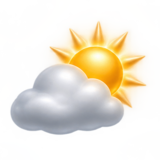
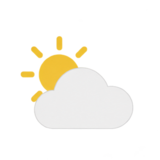
Fix animated window glass, fullscreen privacy, and minimal weather artwork

diff --git a/modules/lickintosh/personalization/WeatherAtmosphere.qml b/modules/lickintosh/personalization/WeatherAtmosphere.qml
@@ -1,11 +1,8 @@
 import QtQuick
-import Quickshell
-import Quickshell.Widgets
-import qs.services
 
-ClippingRectangle {
-    id: root
-
+// Compatibility surface for saved weather preferences. Weather artwork is
+// supplied as image assets; this item intentionally draws no atmosphere.
+Item {
     property string kind: ""
     property bool active: true
     property real intensity: 1
@@ -13,54 +10,4 @@ ClippingRectangle {
     property bool lightning: true
     property color dropColor: "#9cd9ff"
     property int seed: 0
-
-    readonly property bool storm: kind === "storm"
-    readonly property bool wet: storm || kind === "rain" || kind === "drizzle"
-    readonly property bool running: visible && active && wet
-        && RenderingState.ambientAnimations && !SettingsPreferences.locked
-    readonly property string artwork: storm && lightning ? "storm" : wet ? "rain"
-        : kind === "sun" || kind === "partly" ? "clear" : "clouds"
-    property real phase: 0
-
-    visible: kind !== ""
-    radius: Math.min(22, height / 6)
-    color: "transparent"
-
-    FrameAnimation {
-        running: root.running
-        onTriggered: root.phase = (root.phase + Math.min(frameTime, .05) * root.speed) % 120
-    }
-
-    Rectangle {
-        anchors.fill: parent
-        color: "#9ab1ff"
-        opacity: root.running && root.storm && root.lightning
-            ? .14 * Math.pow(Math.max(0, Math.cos(root.phase * .52 + .9)), 65) : 0
-    }
-
-    Repeater {
-        model: root.wet && root.active ? Math.min(20, Math.max(4, Math.round(10 * root.intensity))) : 0
-        delegate: Rectangle {
-            required property int index
-            readonly property real noise: ((index * 73 + root.seed * 31) % 101) / 101
-            readonly property real pulse: root.running ? (1 + Math.sin(root.phase * 1.15 + index * 2.17)) / 2 : .7
-            width: 3 + noise * 7
-            height: width * (1 + noise * .45)
-            radius: width / 2
-            scale: .65 + pulse * .35
-            opacity: .22 + .48 * pulse
-            x: 4 + (index * .618034 % 1) * Math.max(0, root.width - width - 8)
-            y: 4 + (index * .381966 % 1) * Math.max(0, root.height - height - 8)
-            color: Qt.alpha(root.dropColor, .30)
-            border.width: 1
-            border.color: Qt.alpha(root.dropColor, .62)
-
-            Rectangle {
-                x: parent.width * .24; y: parent.height * .17
-                width: Math.max(1, parent.width * .25); height: width
-                radius: width / 2
-                color: "#dfffffff"
-            }
-        }
-    }
 }

diff --git a/modules/lickintosh/island-dashboard/IslandDashboard.qml b/modules/lickintosh/island-dashboard/IslandDashboard.qml
@@ -185,13 +185,6 @@ PanelWindow {
         Behavior on height { NumberAnimation { duration: ShellMotion.fade(); easing.type: Easing.OutCubic } }
         HoverHandler { id: dashboardHover; onHoveredChanged: panel.pointerChanged(hovered) }
 
-        WeatherAtmosphere {
-            anchors.fill: parent
-            kind: panel.page === 1 && WeatherState.available && IslandConfig.s('dashboardWeatherArt')
-                ? WeatherState._kindFor(panel.displayedCode, panel.displayedDay) : ""
-            active: panel.expandedBody
-        }
-
         ColumnLayout {
             anchors.fill: parent
             anchors.margins: 18

diff --git a/modules/lickintosh/island-dashboard/integrate.py b/modules/lickintosh/island-dashboard/integrate.py
@@ -145,3 +145,66 @@ for path in directory.glob('*.qml'):
     text = path.read_text()
     text = text.replace('font.family: "Sans Serif"', 'font.family: "SF Pro Text"')
     path.write_text(text)
+
+# Fullscreen presentation is a single reactive decision shared by island and dot.
+path = root / 'services/PrivacyPresentation.qml'
+path.write_text("""pragma Singleton
+import QtQuick
+import Quickshell
+import Quickshell.Hyprland
+import Quickshell.Wayland
+Singleton {
+    function fullscreen(screenName) {
+        const active = Hyprland.activeToplevel
+        const foreign = ToplevelManager.activeToplevel
+        if (!active || !foreign || !foreign.fullscreen) return false
+        const monitor = active.monitor
+        return !!monitor && monitor.name === screenName
+    }
+    // Older integration stages call this; ownership is now derived from focus.
+    function setCorner(screenName, show) {}
+}
+""")
+path = root / 'rosa/overlays/IslandWindow.qml'
+text = path.read_text()
+a = text.index('    property var fallbackMonitors:')
+b = text.index('    readonly property bool idleEligible:', a)
+text = text[:a] + "    readonly property bool blocked: NativeSettings.PrivacyPresentation.fullscreen(win.modelData.name)\n\n" + text[b:]
+text = text.replace('visible: !IslandBus.locked && IslandConfig.s("enabled") && !idleVisibility.fullyHidden',
+                    'visible: !win.blocked && !IslandBus.locked && IslandConfig.s("enabled") && !idleVisibility.fullyHidden')
+path.write_text(text)
+paths = list(root.rglob('FullscreenPrivacy.qml'))
+assert len(paths) == 1
+paths[0].write_text("""import QtQuick
+import Quickshell
+import Quickshell.Wayland
+import qs.services
+import qs.rosa.services
+Scope {
+    Variants {
+        model: Quickshell.screens
+        delegate: PanelWindow {
+            required property var modelData
+            screen: modelData
+            visible: !IslandBus.locked && MediaCaptureState.islandActive && PrivacyPresentation.fullscreen(modelData.name)
+            anchors { top: true; right: true }
+            implicitWidth: 18; implicitHeight: 18; color: "transparent"
+            exclusionMode: ExclusionMode.Ignore
+            WlrLayershell.layer: WlrLayer.Overlay
+            WlrLayershell.namespace: "lickintosh-fullscreen-privacy"
+            mask: Region {}
+            Rectangle {
+                anchors.centerIn: parent
+                width: 5; height: 5; radius: 2.5
+                color: MediaCaptureState.indicatorColor
+            }
+        }
+    }
+}
+""")
+
+# The procedural backdrop was removed; do not expose its dead switch.
+path = root / 'ui/settings/pages/RosaPage.qml'
+text = path.read_text()
+text = text.replace('                {key:"dashboardWeatherArt", label:"Show weather backgrounds"},\n', '')
+path.write_text(text)

diff --git a/tests/test_weather_atmosphere.py b/tests/test_weather_atmosphere.py
@@ -5,28 +5,20 @@ import test_qml_interface as qml
 ROOT=Path(__file__).resolve().parents[1]
 @unittest.skipUnless(qml.QS,'Quickshell is required')
 class WeatherAtmosphere(unittest.TestCase):
- def test_conditions_and_motion_policy(self):
+ def test_saved_weather_settings_do_not_restart_removed_effects(self):
   with tempfile.TemporaryDirectory() as directory:
-   root=Path(directory);services=root/'services';services.mkdir()
-   (services/'qmldir').write_text('module qs.services\nsingleton RenderingState RenderingState.qml\nsingleton SettingsPreferences SettingsPreferences.qml\n')
-   for name,body in [('RenderingState','property bool ambientAnimations:true'),('SettingsPreferences','property bool locked:false')]:
-    (services/(name+'.qml')).write_text('pragma Singleton\nimport QtQuick\nQtObject{'+body+'}')
+   root=Path(directory)
    (root/'WeatherAtmosphere.qml').write_text((ROOT/'modules/lickintosh/personalization/WeatherAtmosphere.qml').read_text())
    result=qml.Interface.run_qml(self,directory,'''import QtQuick
 import Quickshell
-import qs.services
-Scope{
- Item{WeatherAtmosphere{id:weather;width:320;height:160;kind:'rain'}}
- property int step:0
- Timer{interval:60;running:true;repeat:true;onTriggered:{
-  if(step===0){if(!weather.rain || !weather.running){Qt.exit(10);return};weather.kind='thunderstorm'}
-  if(step===1){if(!weather.storm){Qt.exit(11);return};RenderingState.ambientAnimations=false}
-  if(step===2){if(weather.running){Qt.exit(12);return};RenderingState.ambientAnimations=true;SettingsPreferences.locked=true}
-  if(step===3){if(weather.running){Qt.exit(13);return};SettingsPreferences.locked=false;weather.active=false}
-  if(step===4){if(weather.running){Qt.exit(14);return};weather.active=true;weather.kind='clear'}
-  if(step===5){if(weather.running || weather.rain || weather.snow){Qt.exit(15);return};console.log('WEATHER_POLICY_OK');Qt.quit()}
-  step++
+Scope {
+ Item { WeatherAtmosphere { id:weather;width:320;height:160;kind:'storm';active:true;intensity:2;speed:2;lightning:true } }
+ Timer { interval:100;running:true;onTriggered: {
+  if(weather.children.length!==0){Qt.exit(10);return}
+  weather.kind='rain';weather.active=false;weather.active=true
+  if(weather.children.length!==0){Qt.exit(11);return}
+  console.log('WEATHER_ASSET_ONLY_OK');Qt.quit()
  }}
 }''')
-   self.assertIn('WEATHER_POLICY_OK',result)
+   self.assertIn('WEATHER_ASSET_ONLY_OK',result)
 if __name__=='__main__':unittest.main()

diff --git a/tests/test_compositor_policy.py b/tests/test_compositor_policy.py
@@ -46,4 +46,24 @@ class CompositorPolicy(unittest.TestCase):
    policy.apply_native_workspace(api,{},restore=True)
    self.assertIn('["style"]="slide"',commands[-1])
    self.assertNotIn("specialWorkspace",commands[-1])
+ def test_native_open_and_close_are_independent_and_reversible(self):
+  from tempfile import TemporaryDirectory
+  from types import SimpleNamespace
+  import json,os
+  with TemporaryDirectory() as state:
+   commands=[]
+   opening=dict(name='windowsIn',overridden=True,bezier='default',enabled=True,speed=5,style='popin 80%')
+   closing=dict(opening,name='windowsOut',style='slide')
+   def run(args):
+    if args[1]=='animations':return json.dumps([[opening,closing],[{'name':'default'}]])
+    commands.append(args[-1]);return 'ok'
+   def read_json(path):return json.loads(path.read_text()) if path.exists() else {}
+   api=SimpleNamespace(STATE=Path(state),os=os,run=run,read_json=read_json,
+    write_json=lambda path,data:path.write_text(json.dumps(data)))
+   policy.apply_native_windows(api,{'window-animation:windowsOut:style':'popin','window-animation:windowsOut:amount':70})
+   self.assertIn('windowsOut',commands[-1]);self.assertIn('popin 70%',commands[-1])
+   self.assertNotIn('windowsIn',commands[-1]);self.assertNotIn('specialWorkspace',commands[-1])
+   policy.apply_native_windows(api,{},restore=True)
+   self.assertIn('["style"]="slide"',commands[-1])
+   self.assertFalse((api.STATE/'window-animation-runtime.json').exists())
 if __name__=='__main__':unittest.main()

diff --git a/modules/lickintosh/personalization/integrate.py b/modules/lickintosh/personalization/integrate.py
@@ -58,14 +58,4 @@ s=s.replace(needle,needle+'''
 ''',1)
 if 'property bool isSnapshot:' not in s:s=s.replace('    id: w','    id: w\n    property bool isSnapshot:false',1)
 write(p,s)
-p='ui/widgets/WidgetDetailsEditor.qml';s=(r/p).read_text();end=s.rfind('\n}')
-s=s[:end]+'''
- EditorGroup{visible:root.entry.type==='weather';title:'Weather atmosphere'
-  ConfigSwitch{text:'Animated weather';checked:root.entry.weatherAnimated!==false;onToggled:v=>root.set('weatherAnimated',v)}
-  ConfigSwitch{text:'Lightning flashes';checked:root.entry.weatherLightning!==false;onToggled:v=>root.set('weatherLightning',v)}
-  ConfigSlider{text:'Precipitation density';from:.2;to:2;decimals:1;value:root.entry.weatherIntensity ?? 1;onMoved:v=>root.set('weatherIntensity',v)}
-  ConfigSlider{text:'Weather motion';from:.25;to:2;decimals:2;value:root.entry.weatherSpeed ?? 1;onMoved:v=>root.set('weatherSpeed',v)}
-  ColorSetting{label:'Precipitation color';value:root.entry.weatherDropColor || '#9cd9ff';onPicked:v=>root.set('weatherDropColor',String(v))}
- }
-'''+s[end:];write(p,s)
 write('assets/shaders/liquidglass/ClockColors.frag',(here/'ClockColors.frag').read_text())

diff --git a/modules/lickintosh/island-dashboard/assets/weather-art.md b/modules/lickintosh/island-dashboard/assets/weather-art.md
@@ -1,0 +1,7 @@
+# Minimal weather artwork
+
+Generated using the built-in imagegen tool, November 25, 2026. Each PNG is a cropped and resized cell of the generated sheet; no programmatic illustration was used.
+
+Prompt: A transparent 4 × 2 sheet of eight minimal flat weather interface glyphs, centered in equal cells with padding. Reading order: sun, partly cloudy, overcast, rain, heavy rain, thunderstorm, snow, crescent moon. Smooth off-white clouds, a subtle gray second cloud, muted yellow sun and lightning, blue precipitation. No dimensional rendering, shadows, glossy reflections, texture, atmospheric background, text, borders or panels.
+
+These assets replace the previous detailed artwork. The weather UI draws no procedural drops, lightning flashes or atmospheric overlays.
